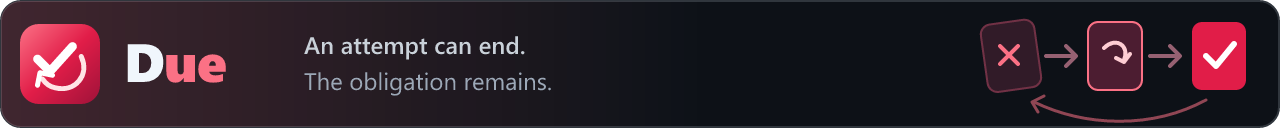
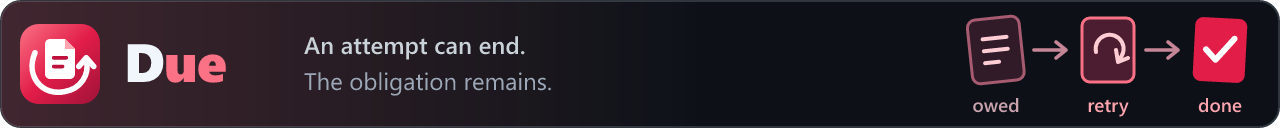
docs(branding): clarify Due's task and recovery artwork

diff --git a/scripts/render_brand.py b/scripts/render_brand.py
@@ -18,16 +18,24 @@ def digest(path):
 
 
 def motif() -> str:
-    return """<g stroke-linecap="round" stroke-linejoin="round">
-<rect x="2" y="10" width="27" height="34" rx="5" fill="#311B28" stroke="#713145" transform="rotate(-8 15 27)"/>
-<path d="m10 22 9 9m0-9-9 9" stroke="#FB7185" stroke-width="2"/>
-<path d="M33 27h15m-5-5 5 5-5 5" fill="none" stroke="#966172" stroke-width="2"/>
-<rect x="54" y="10" width="27" height="34" rx="5" fill="#4C1D31" stroke="#FB7185"/>
-<path d="M62 23c6-6 13-1 10 6m-4-1 4 2 3-4" fill="none" stroke="#FECDD3" stroke-width="2"/>
-<path d="M85 27h15m-5-5 5 5-5 5" fill="none" stroke="#966172" stroke-width="2"/>
-<rect x="106" y="10" width="27" height="34" rx="5" fill="#E11D48"/>
-<path d="m113 27 5 5 9-11" fill="none" stroke="#FFFFFF" stroke-width="3"/>
-<path d="M113 49c-28 15-61 13-86 1m5-3-6 3 3 5" fill="none" stroke="#FB7185" stroke-width="1.5" opacity="0.55"/>
+    return f"""<g stroke-linecap="round" stroke-linejoin="round">
+<g transform="rotate(-6 18 25)">
+<rect x="5" y="8" width="26" height="32" rx="4" fill="#311B28" stroke="#A65B70" stroke-width="1.5"/>
+<path d="M12 18h12M12 24h12M12 30h7" stroke="#FECDD3" stroke-width="2"/>
+</g>
+<path d="M37 24h16m-5-4 5 4-5 4" fill="none" stroke="#C58797" stroke-width="1.8"/>
+<rect x="61" y="8" width="26" height="32" rx="4" fill="#4C1D31" stroke="#FB7185" stroke-width="1.5"/>
+<path d="M68 25a7 7 0 1 1 11 4m-1-5 1 6 5-2" fill="none" stroke="#FECDD3" stroke-width="2"/>
+<path d="M93 24h16m-5-4 5 4-5 4" fill="none" stroke="#C58797" stroke-width="1.8"/>
+<g transform="rotate(3 130 24)">
+<rect x="117" y="8" width="26" height="32" rx="4" fill="#E11D48"/>
+<path d="m123 24 5 5 9-11" fill="none" stroke="#FFFFFF" stroke-width="3"/>
+</g>
+<g font-family="{FONT}" font-size="9.5" font-weight="600" text-anchor="middle">
+<text x="18" y="55" fill="#C9A3AE">owed</text>
+<text x="74" y="55" fill="#FDA4AF">retry</text>
+<text x="130" y="55" fill="#FDA4AF">done</text>
+</g>
 </g>"""
 
 
@@ -37,7 +45,7 @@ def render():
     name, tagline, color, accent = (escape(brand[k], quote=True) for k in ("name", "tagline", "color", "accent"))
     first, second = (escape(line) for line in brand["banner_lines"])
     repository = brand["repository"]
-    width, text_x, motif_x = (640, 152, 490)
+    width, text_x, motif_x = (640, 152, 480)
     wordmark = f'D<tspan fill="{color}">ue</tspan>'
     defs = f"""<defs><linearGradient id="brand-glow" x1="0" y1="0" x2="1" y2="0">
 <stop stop-color="{color}" stop-opacity="0.21"/><stop offset="0.55" stop-color="{color}" stop-opacity="0"/>
@@ -66,7 +74,7 @@ def render():
 <text x="290" y="256" font-family="{FONT}" font-size="25" fill="#A9B5C4">Durable work for Django + PostgreSQL</text>
 <text x="80" y="420" font-family="{FONT}" font-size="34" font-weight="600" fill="#F0F6FC">{first}</text>
 <text x="80" y="470" font-family="{FONT}" font-size="34" font-weight="600" fill="{accent}">{second}</text>
-<g transform="translate(730 335) scale(3.25)">{motif()}</g>
+<g transform="translate(720 335) scale(3.25)">{motif()}</g>
 <text x="80" y="600" font-family="{FONT}" font-size="22" fill="#8B949E">github.com/gigaverse-app/{repository}</text>
 </svg>
 '''

diff --git a/package/README.md b/package/README.md
@@ -1,4 +1,4 @@
-![Due: An attempt can end. The obligation remains.](https://raw.githubusercontent.com/gigaverse-app/due/main/docs/assets/banner.png?v=5df948b984d0)
+![Due: An attempt can end. The obligation remains.](https://raw.githubusercontent.com/gigaverse-app/due/main/docs/assets/banner.png?v=e6e1fea2a5af)
 
 # Due library
 

diff --git a/README.md b/README.md
@@ -1,4 +1,4 @@
-![Due: An attempt can end. The obligation remains.](https://raw.githubusercontent.com/gigaverse-app/due/main/docs/assets/banner.png?v=5df948b984d0)
+![Due: An attempt can end. The obligation remains.](https://raw.githubusercontent.com/gigaverse-app/due/main/docs/assets/banner.png?v=e6e1fea2a5af)
 
 # Due
 
